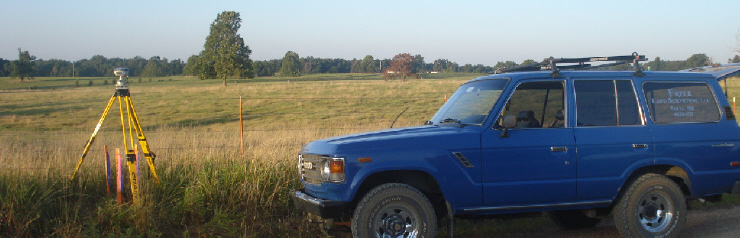
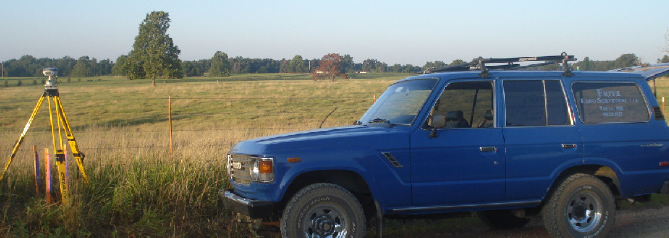
adjusted responsiveness, still no styling

diff --git a/src/containers/FAQ.js b/src/containers/FAQ.js
@@ -1,46 +1,59 @@
 import React, { Component } from 'react';
-import { Col } from 'react-bootstrap';
+import { Col, Row } from 'react-bootstrap';
 import './FAQ.css';
 
 class FAQ extends Component {
   render() {
     return (
       <div id="faq">
-        <Col xs={12}>
-          <h1>FAQ</h1>
+        <Row>
+          <Col md={6} mdOffset={3}>
+            <h1>FAQ</h1>
 
-          <h2>WHEN IS A SURVEY USUALLY NEEDED?</h2>
-          <ul>
-            <li>For mortgage loan purposes.</li>
-            <li>Before title in land is transferred.</li>
-            <li>Before land is subdivided.</li>
-            <li>Before land is developed by construction of buildings, roads, fences, etc.</li>
-            <li>Before a boundary dispute arises.</li>
-            <li>Before a building or fence is to be built near a property line.</li>
-            <li>Before a lot is to be conveyed from a larger tract and the lot has not been surveyed.</li>
-          </ul>
+            <h2>WHEN IS A SURVEY USUALLY NEEDED?</h2>
+              <ul className="ulFAQ">
+                <li>For mortgage loan purposes.</li>
+                <li>Before title in land is transferred.</li>
+                <li>Before land is subdivided.</li>
+                <li>Before land is developed by construction of buildings, roads, fences, etc.</li>
+                <li>Before a boundary dispute arises.</li>
+                <li>Before a building or fence is to be built near a property line.</li>
+                <li>Before a lot is to be conveyed from a larger tract and the lot has not been surveyed.</li>
+              </ul>
+              <br></br>
+            </Col>
+          </Row>
+          
+          <Row className="show-grid">
+            <Col md={6} mdOffset={3}>
+              <h2>WHAT DOES THE SURVEYOR NEED FROM ME?</h2>
+              
+              <ul className="ulFAQ">
+                <li>The purpose and type of survey.</li>
+                <li>A copy of your deed.</li>
+                <li>Any plats you have, and information about the location of cornors and lines.</li>
+                <li>Brief history of ownership.</li>
+                <li>Name and address of adjacent property owners if known.</li>
+                <li>Information about disagreements over location of corners and lines.</li>
+                <li>Abstract and title opinion if avialable and requested by the survey.</li>
+              </ul>
+            </Col>
+          </Row>
+         
           <br></br>
           
-          <h2>WHAT DOES THE SURVEYOR NEED FROM ME?</h2>
-          <ul>
-            <li>The purpose and type of survey.</li>
-            <li>A copy of your deed.</li>
-            <li>Any plats you have, and information about the location of cornors and lines.</li>
-            <li>Brief history of ownership.</li>
-            <li>Name and address of adjacent property owners if known.</li>
-            <li>Information about disagreements over location of corners and lines.</li>
-            <li>Abstract and title opinion if avialable and requested by the survey.</li>
-          </ul>
-          <br></br>
-          <div id="notBullet">
-          <h2>HOW MUCH WILL A SURVEY COST?</h2>
-          <p>Surveyors usually charge by the hour, so land surveying cost is dependent upon many factors, such as the type of survey and equipment required, the availability of existing records, and monuments, the type of terrain, and your surveyors' familiarity and knowledge of the area.  Because of these variables, it is often difficult to determine the exact fee; however, based on general experience, the surveyor can usually furnish an approximate estimate of the cost.</p>
-          <br></br>
+          <Row className="show-grid">
+            <Col md={6} mdOffset={3}>
+              <div id="notBullet">
+                <h2>HOW MUCH WILL A SURVEY COST?</h2>
+                <p>Surveyors usually charge by the hour, so land surveying cost is dependent upon many factors, such as the type of survey and equipment required, the availability of existing records, and monuments, the type of terrain, and your surveyors' familiarity and knowledge of the area.  Because of these variables, it is often difficult to determine the exact fee; however, based on general experience, the surveyor can usually furnish an approximate estimate of the cost.</p>
+                
+                <br></br>
           
-          <p>To reduce the possibility of misunderstanding, the surveyor may request that you sign an agreement that includes a description of the work to be completed, approximate completion date, a lump sum price or hourly rate and a payment schedule.</p>
-          </div>
-          <br></br>
-        </Col>
+                <p>To reduce the possibility of misunderstanding, the surveyor may request that you sign an agreement that includes a description of the work to be completed, approximate completion date, a lump sum price or hourly rate and a payment schedule.</p>
+              </div>
+            </Col>
+          </Row>
       </div>
     );
   }

diff --git a/src/Routes.js b/src/Routes.js
@@ -9,7 +9,6 @@ import Services from './containers/Services';
 import FAQ from './containers/FAQ';
 import About from './containers/About';
 import Contact from './containers/Contact';
-import Foo from './containers/Foo';
 
 
 
@@ -22,7 +21,6 @@ export default () => (
     <Route path="/contact" exact component={Contact} />
     <Route path="/login" exact component={Login} />
     <Route path="/signup" exact component={Signup} />
-    <Route path="/foo" exact component={Foo} />
 
     { /* Catch all unmatched routes */ }
     <Route component={NotFound} />

diff --git a/src/containers/Home.css b/src/containers/Home.css
@@ -5,8 +5,9 @@
 .Home .lander h1 {
   font-family: "Open Sans", sans-serif;
   font-weight: 800;
-  padding-top: 2%;
   text-decoration: none;
+    margin-top: -1vh;
+  padding-top: 3vh;
 }
 
 .Home .lander>p {
@@ -15,14 +16,9 @@
 }
 
 .Home {
-  border-width: 0 0 1px;
   background-image: url(.././img/suv.png);
-  background-size: cover;
-  height: 400px;
-  margin-top: 35px;
-  padding-left: 0;
-  padding-right: 0;
-  width: 100%;
+  background-size: 110vw;
+  height: 100vh;
   background-repeat: no-repeat;
 }
 

diff --git a/src/containers/Services.js b/src/containers/Services.js
@@ -1,5 +1,5 @@
 import React, { Component } from 'react';
-import { Grid, Row, Col, Clearfix } from 'react-bootstrap';
+import { Grid, Row, Col } from 'react-bootstrap';
 import './Services.css';
 
 class Services extends Component {

diff --git a/src/containers/FAQ.css b/src/containers/FAQ.css
@@ -2,15 +2,3 @@ h1, h2 {
   text-align: center;
   text-decoration: underline;
 }
-ul {
-  margin-left: 10vw;
-}
-.faq {
-  width: 75vw;
-  margin-left: 15vw;
-}
-
-#notBullet {
-  width: 50vw;
-  margin-left: 10vw;
-}
